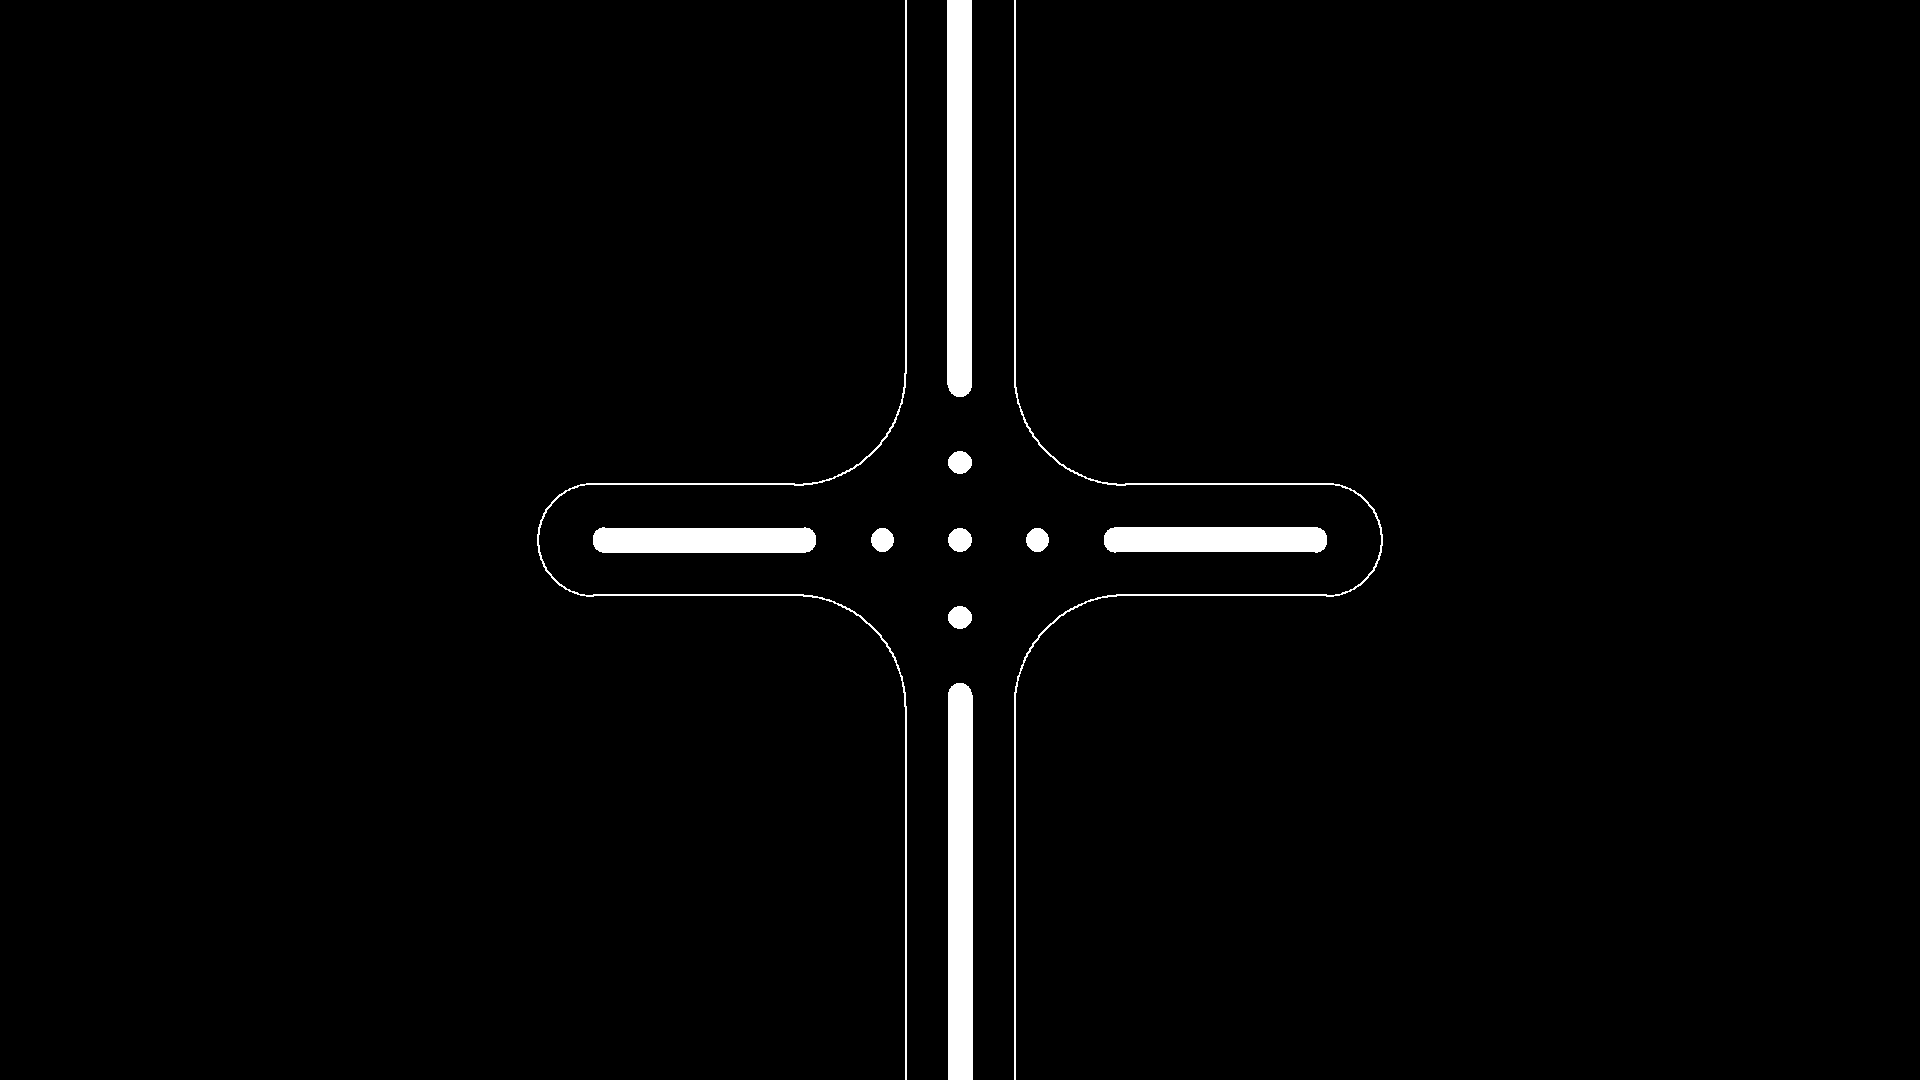
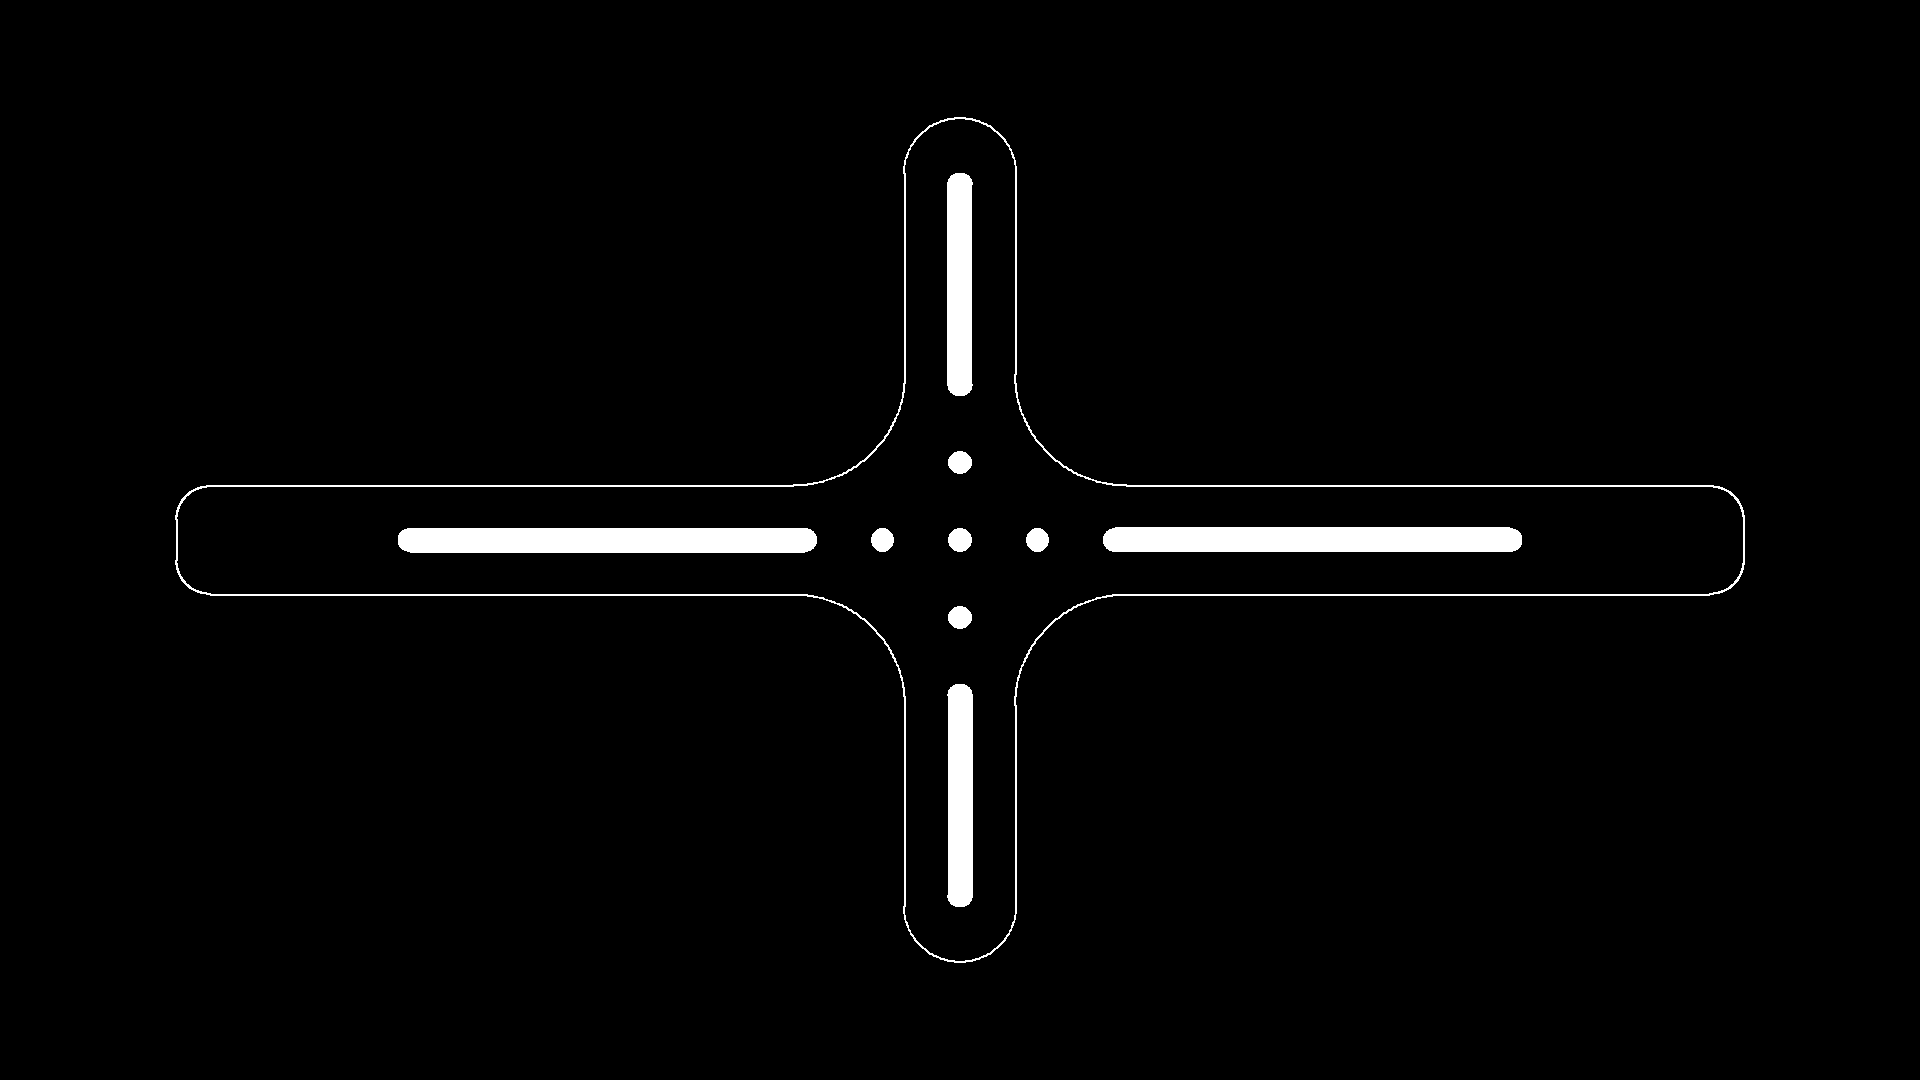
Fix alignment image orientation for sideways-mounted projector

diff --git a/opencal/utils/calibration/generate_alignment_image.py b/opencal/utils/calibration/generate_alignment_image.py
@@ -33,7 +33,12 @@ from PIL import Image, ImageDraw
 
 PIXEL_SIZE_MM = 0.09          # 90 µm per pixel
 PX_PER_MM     = 1.0 / PIXEL_SIZE_MM   # ≈ 11.11 px / mm
-W, H          = 1920, 1080
+
+# The projector is mounted rotated 90° on its side, so generate on a portrait
+# canvas (physical orientation) then rotate to landscape for the projector output.
+W, H          = 1080, 1920   # portrait virtual canvas (physical orientation)
+W_OUT, H_OUT  = 1920, 1080   # landscape output for projector
+
 LINE_WIDTH    = 2             # px — outline stroke
 HOLE_WIDTH    = 3             # px — alignment hole stroke (slightly bolder)
 ARC_STEPS     = 120           # line segments per arc
@@ -176,9 +181,11 @@ def main() -> None:
     _fill_slot_h(draw, x_inner_mm=-14, x_outer_mm=-32, y_mm=0, r_mm=1.0)          # left
     print("  Filled 4 alignment slots")
 
+    # Rotate portrait canvas → landscape for the sideways-mounted projector
+    img = img.rotate(-90, expand=True)   # -90° = CW rotation: 1080×1920 → 1920×1080
     img.save(OUT_PATH)
     print(f"Saved: {OUT_PATH}")
-    print(f"Canvas: {W}×{H} px  |  Scale: {PX_PER_MM:.2f} px/mm  (90 µm/pixel)")
+    print(f"Canvas: {W_OUT}×{H_OUT} px  |  Scale: {PX_PER_MM:.2f} px/mm  (90 µm/pixel)")
 
 
 if __name__ == "__main__":

diff --git a/opencal/gui/modes/alignment.py b/opencal/gui/modes/alignment.py
@@ -25,11 +25,11 @@ class AlignmentMode(BasePygameMode):
         super().__init__(app)
         self._image_path = Path(image_path)
         self._surface: pygame.Surface | None = None
-        self._y_offset: int = 0
+        self._x_offset: int = 0  # physical up/down = image X due to 90° projector rotation
 
     @override
     def on_activate(self) -> None:
-        self._y_offset = 0
+        self._x_offset = 0
         raw = pygame.image.load(str(self._image_path)).convert()
         self._surface = pygame.transform.scale(raw, (self.app.width, self.app.height))
 
@@ -39,7 +39,7 @@ class AlignmentMode(BasePygameMode):
 
     @override
     def on_encoder_delta(self, delta: int) -> None:
-        self._y_offset += delta * _STEP_PX
+        self._x_offset += delta * _STEP_PX
 
     @override
     def on_button(self) -> None:
@@ -49,4 +49,4 @@ class AlignmentMode(BasePygameMode):
     def on_frame(self, surf: pygame.Surface) -> None:
         surf.fill((0, 0, 0))
         if self._surface is not None:
-            _ = surf.blit(self._surface, (0, self._y_offset))
+            _ = surf.blit(self._surface, (self._x_offset, 0))